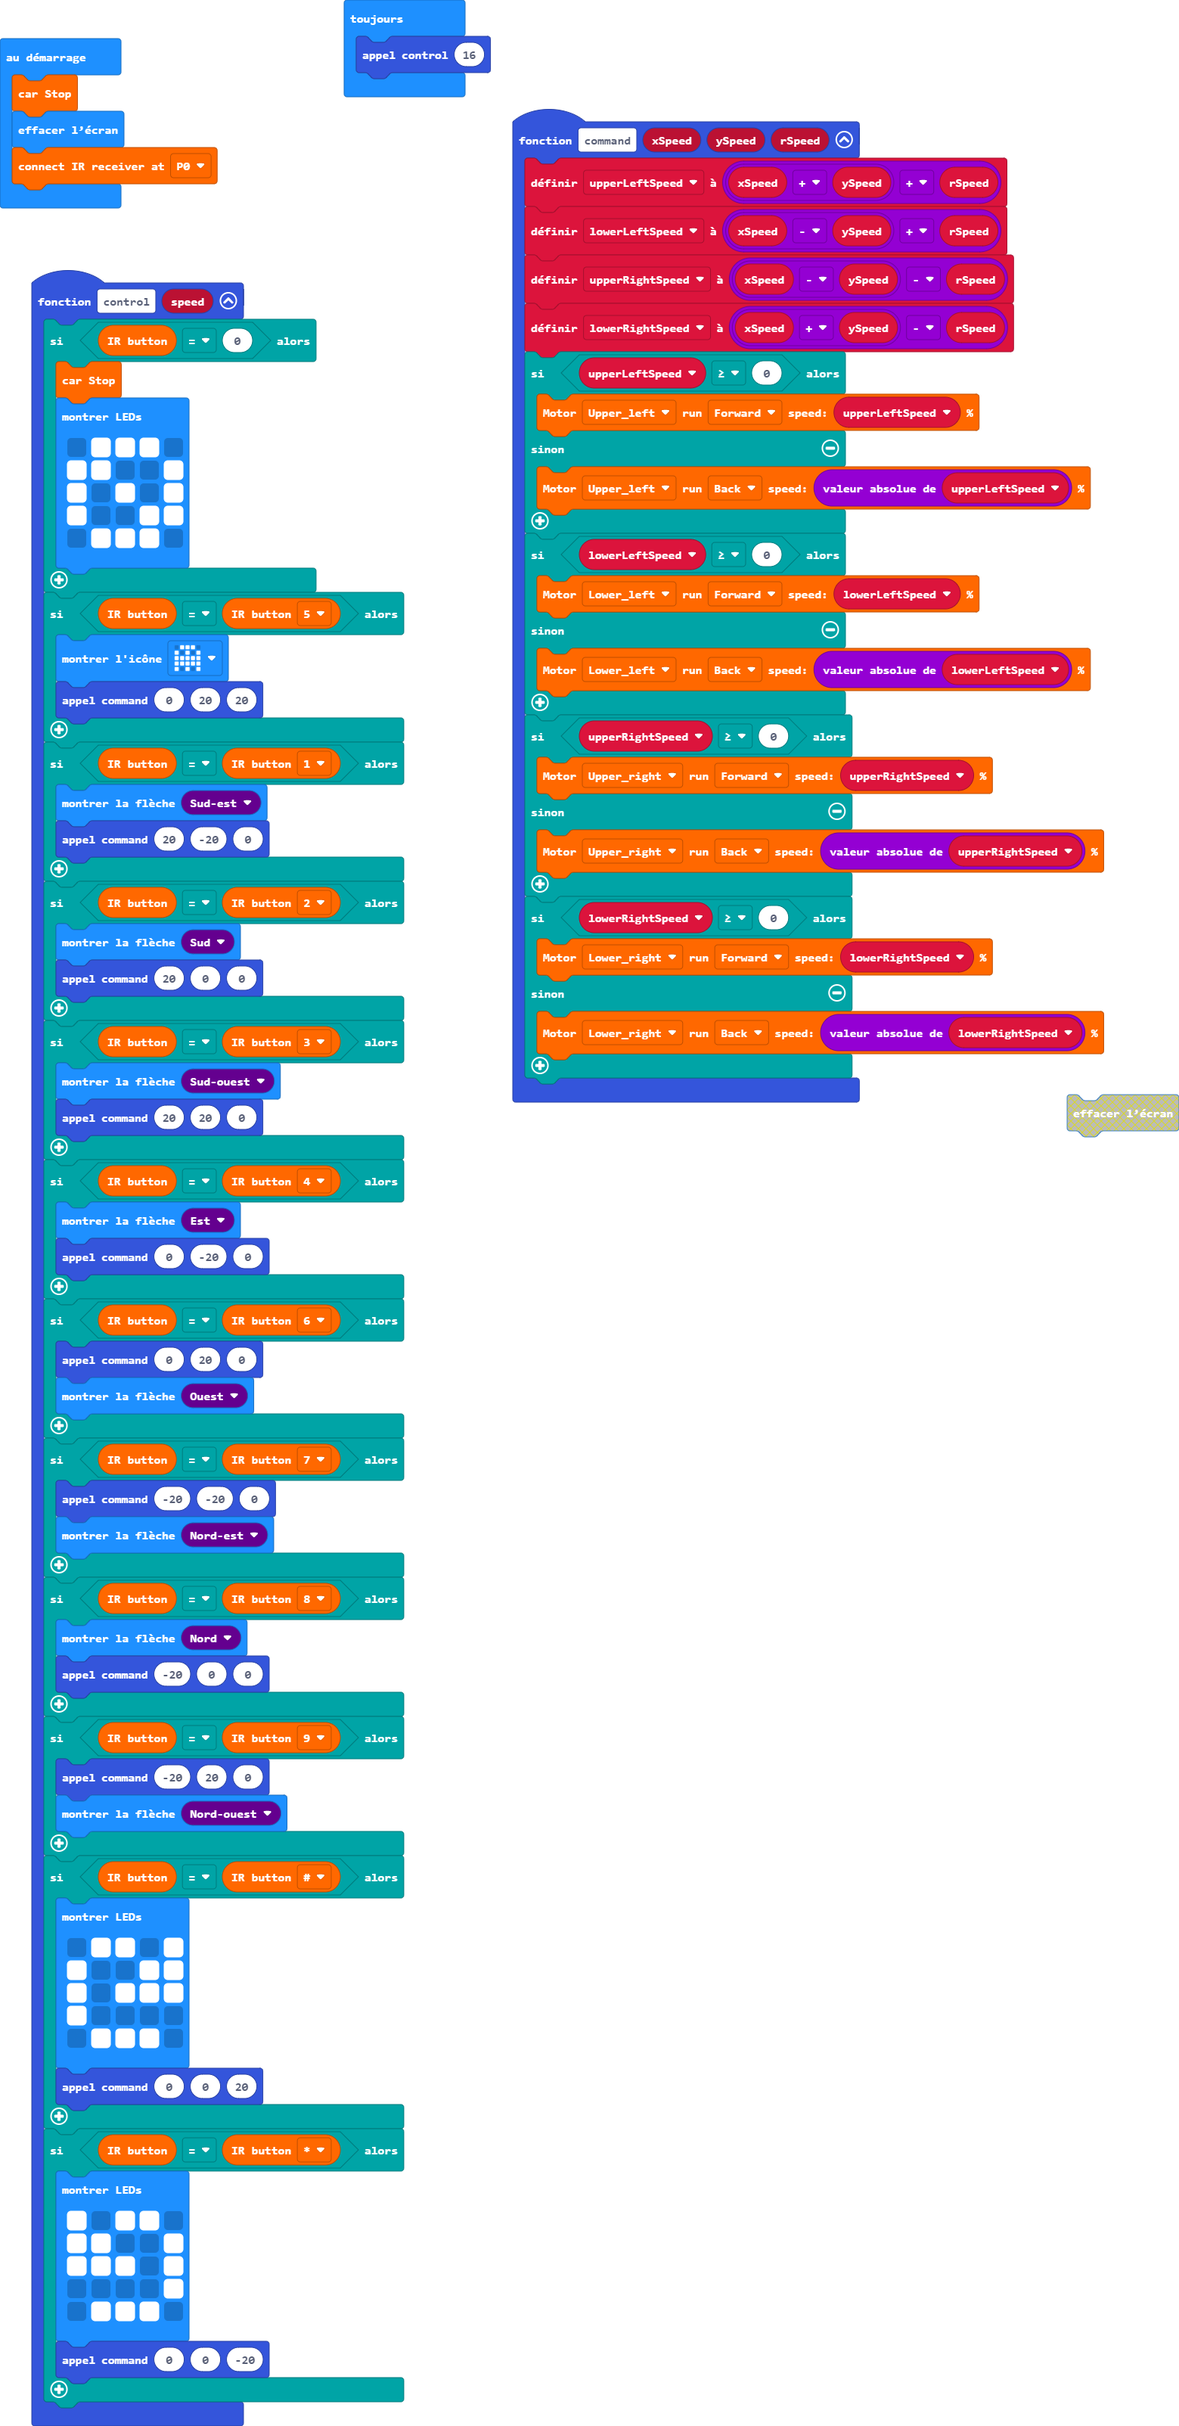
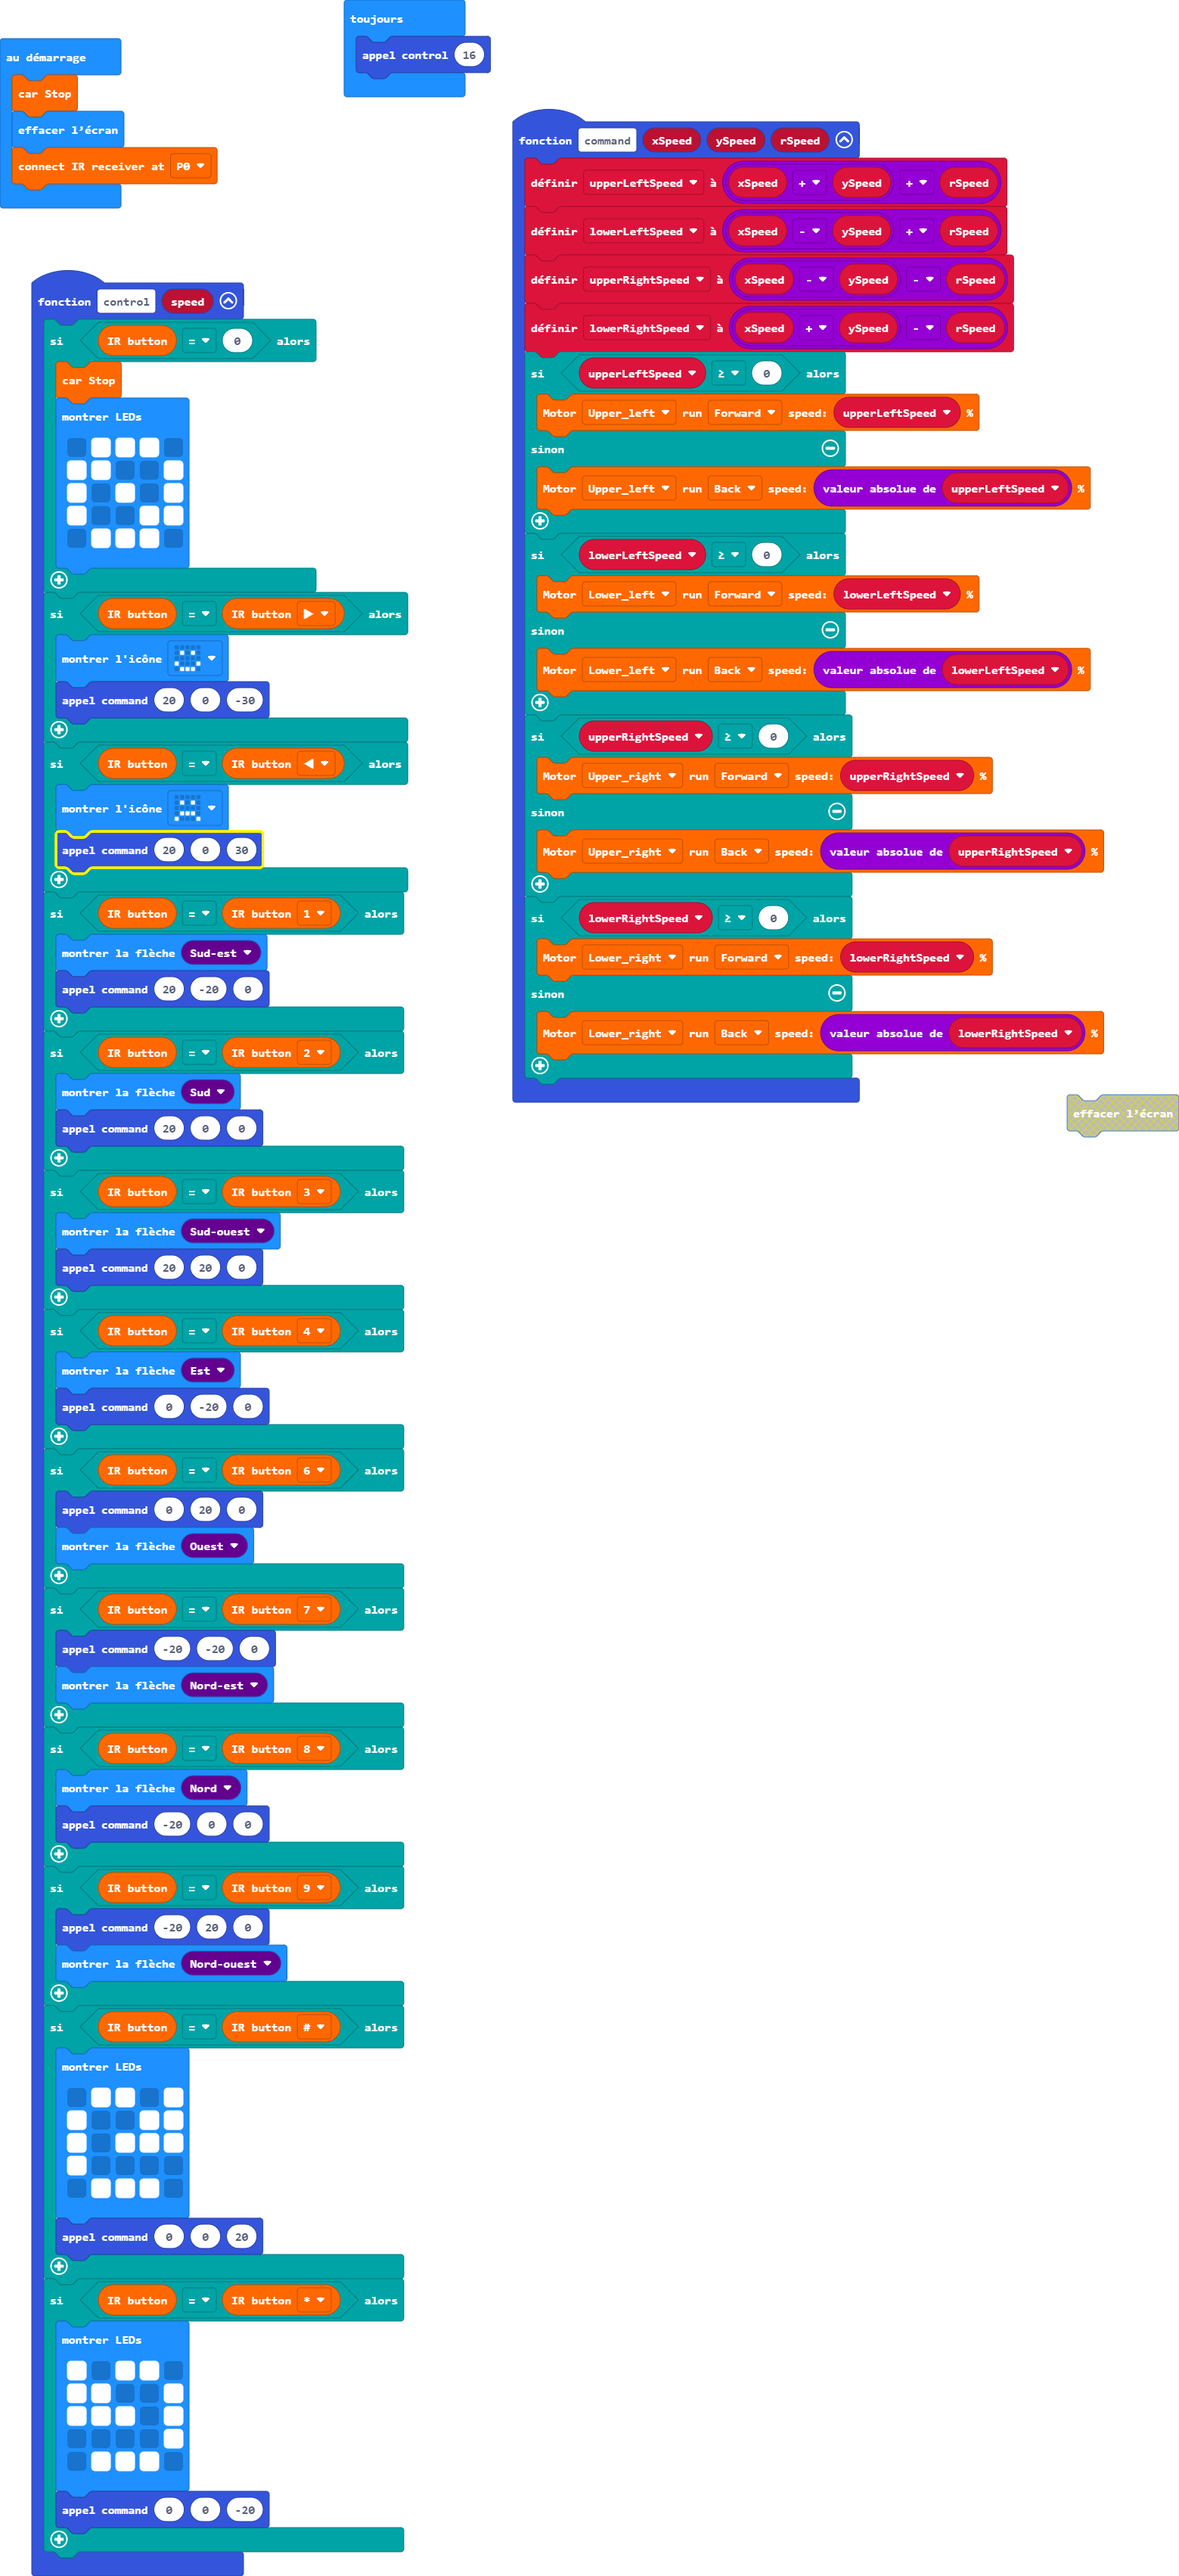
Ajout virages

diff --git a/main.ts b/main.ts
@@ -9,9 +9,13 @@ function control2 (speed: number) {
             . # # # .
             `)
     }
-    if (irRemote.returnIrButton() == irRemote.irButton(IrButton.Number_5)) {
-        basic.showIcon(IconNames.Ghost)
-        command(0, 20, 20)
+    if (irRemote.returnIrButton() == irRemote.irButton(IrButton.Right)) {
+        basic.showIcon(IconNames.Happy)
+        command(20, 0, -30)
+    }
+    if (irRemote.returnIrButton() == irRemote.irButton(IrButton.Left)) {
+        basic.showIcon(IconNames.Sad)
+        command(20, 0, 30)
     }
     if (irRemote.returnIrButton() == irRemote.irButton(IrButton.Number_1)) {
         basic.showArrow(ArrowNames.SouthEast)
